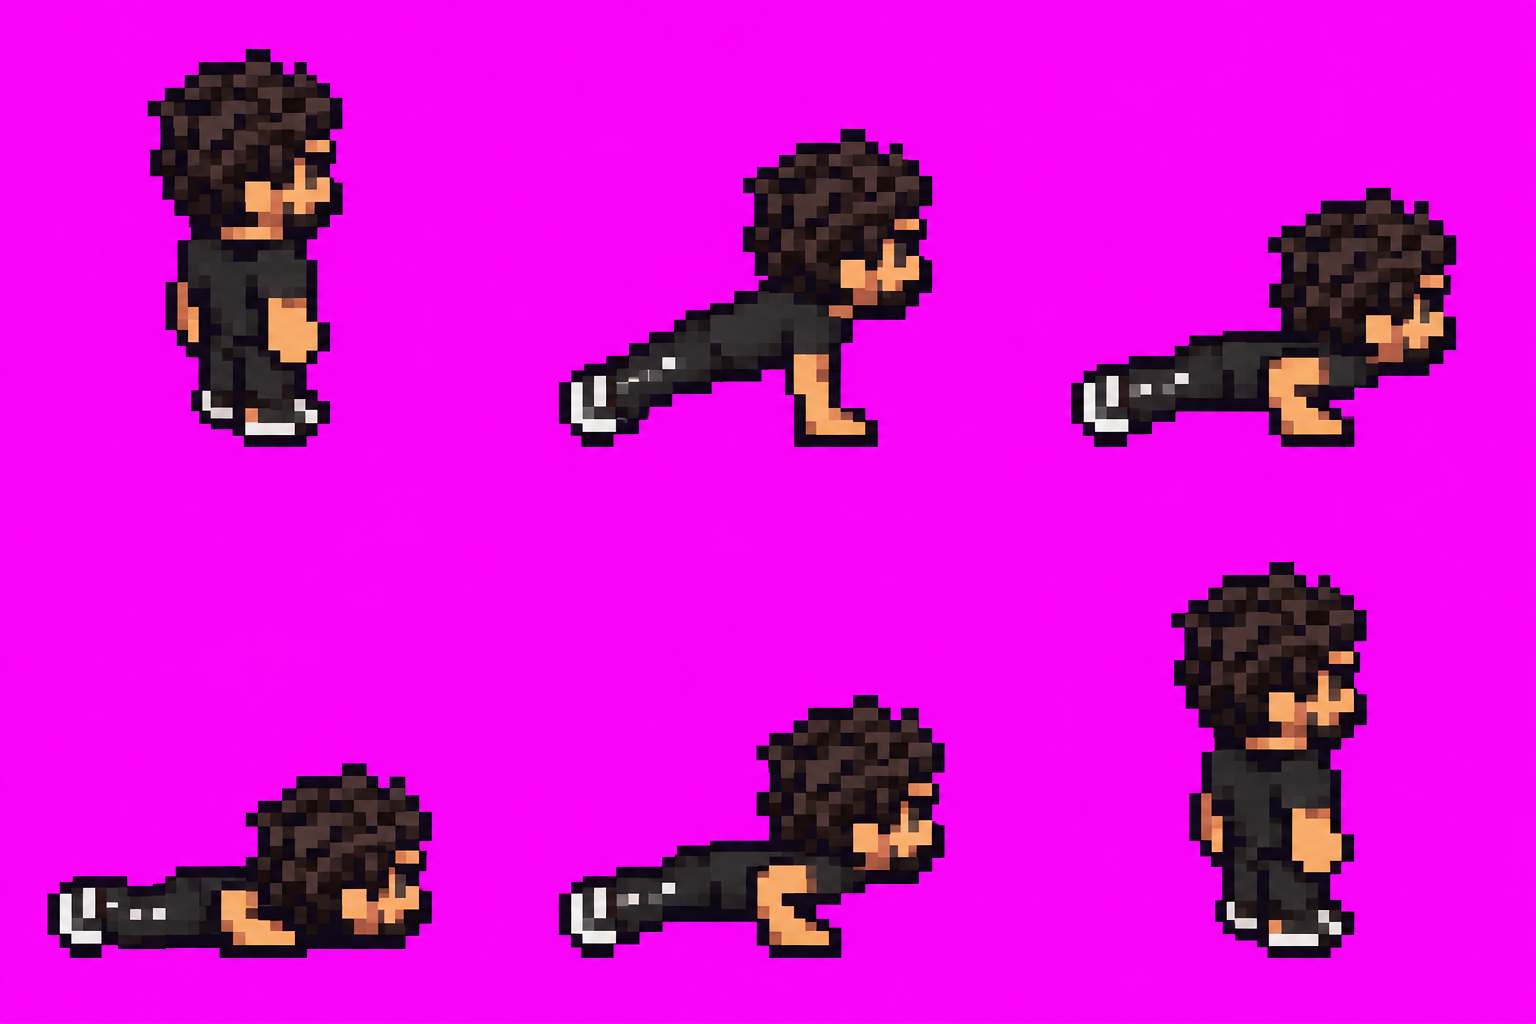
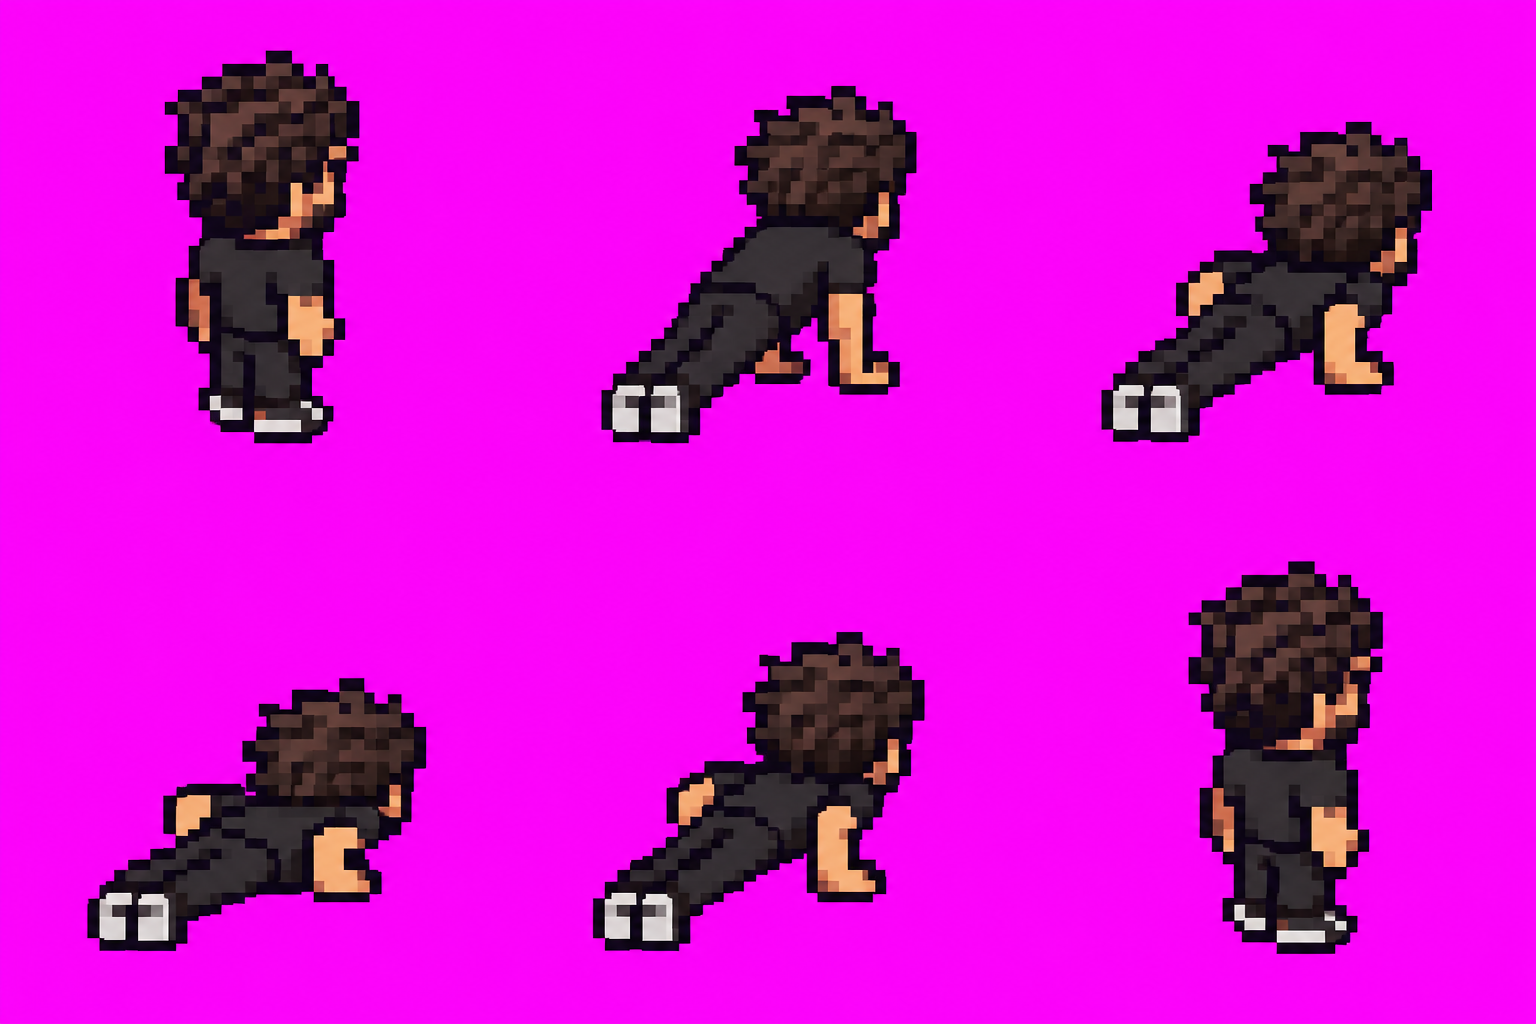
fix(pixel-art): ciclismo e calistenia do jpgma na diagonal
O ciclismo sudeste tinha a bicicleta de lado e a calistenia nordeste, a
prancha de perfil. Geradas de novo no ChatGPT com a vista pedida no prompt;
os quadros das duas direções e dos espelhos foram trocados no .aseprite e a
folha montada de novo. A roda da frente na diagonal desce abaixo dos pés, e
o gemini.py passa a pôr essa folha no chão.

diff --git a/pixel-art/jpgma/gemini.py b/pixel-art/jpgma/gemini.py
@@ -60,7 +60,9 @@ EXTRAS = {
 }
 # Células que ficam no chão da calibração, mesmo que o Gemini as desenhe 1 ou 2 px acima (as
 # outras guardam a altura em relação a ela: o 3º de `acordar` é o susto, no ar).
-NO_CHAO = {"dormindo": range(4), "adormecer": range(8), "acordar": (0, 1, 3, 4, 5), "levantar": range(8)}
+NO_CHAO = {"dormindo": range(4), "adormecer": range(8), "acordar": (0, 1, 3, 4, 5), "levantar": range(8),
+           # A bicicleta na diagonal: a roda da frente, mais perto, desce abaixo dos pés e sairia da célula.
+           "ciclismo-southeast": range(8)}
 # Células sentadas: são postas sobre a pose sentada de `dormindo` (a 2ª célula da tira dele).
 SENTADOS = {"dormindo": (1, 2, 3), "adormecer": (4, 5, 6, 7), "acordar": (1, 3, 4, 5), "levantar": (0, 1, 2, 3)}
 
@@ -214,7 +216,7 @@ def processar(arq: pathlib.Path) -> None:
     quadros: list[dict] = [{} for _ in range(n)]
     for i in sorted(range(n), key=lambda i: (i != k, i)):
         grade, th = grades[i]
-        no_chao = i in NO_CHAO.get(animacao, ())
+        no_chao = i in NO_CHAO.get(arq.stem, NO_CHAO.get(animacao, ()))
         dy = 0 if no_chao else round((celulas[i][6] - y1max) / escala)
         if no_chao:  # a limpeza pode tirar a linha de baixo: mede pelo desenho
             th = max(ty for _, ty in grade) + 1

diff --git a/pixel-art/jpgma/prompts-chatgpt.md b/pixel-art/jpgma/prompts-chatgpt.md
@@ -12,7 +12,7 @@
 
 São 52 gerações, com as mesmas grades e tamanhos do base masculino.
 
-**Nordeste de costas:** em `volei` e `manchete`, o ChatGPT vira o nordeste de perfil. Acrescente ao fim do prompt "IMPORTANT VIEW: the reference shows the character from behind, in a three-quarter back view (…) Do not turn the character to a side profile or toward the viewer", e, se ainda sair de perfil, peça no mesmo chat para redesenhar de costas. Para trocar os quadros de uma direção depois do `esportes.py`, o `import_image` do pixel-mcp substitui a cel do quadro.
+**Nordeste de costas:** em `volei` e `manchete`, o ChatGPT vira o nordeste de perfil. Acrescente ao fim do prompt "IMPORTANT VIEW: the reference shows the character from behind, in a three-quarter back view (…) Do not turn the character to a side profile or toward the viewer", e, se ainda sair de perfil, peça no mesmo chat para redesenhar de costas. Do mesmo jeito, o `ciclismo` sudeste pede a bicicleta na diagonal ("Do not draw the bicycle in a pure side view") e a `calistenia` nordeste, a prancha se afastando para o alto à direita. Na diagonal, a roda da frente desce abaixo dos pés: o `gemini.py` põe essa folha no chão (`NO_CHAO`). Para trocar os quadros de uma direção depois do `esportes.py`, o `import_image` do pixel-mcp substitui a cel do quadro.
 
 ## 2. Prompts
 
